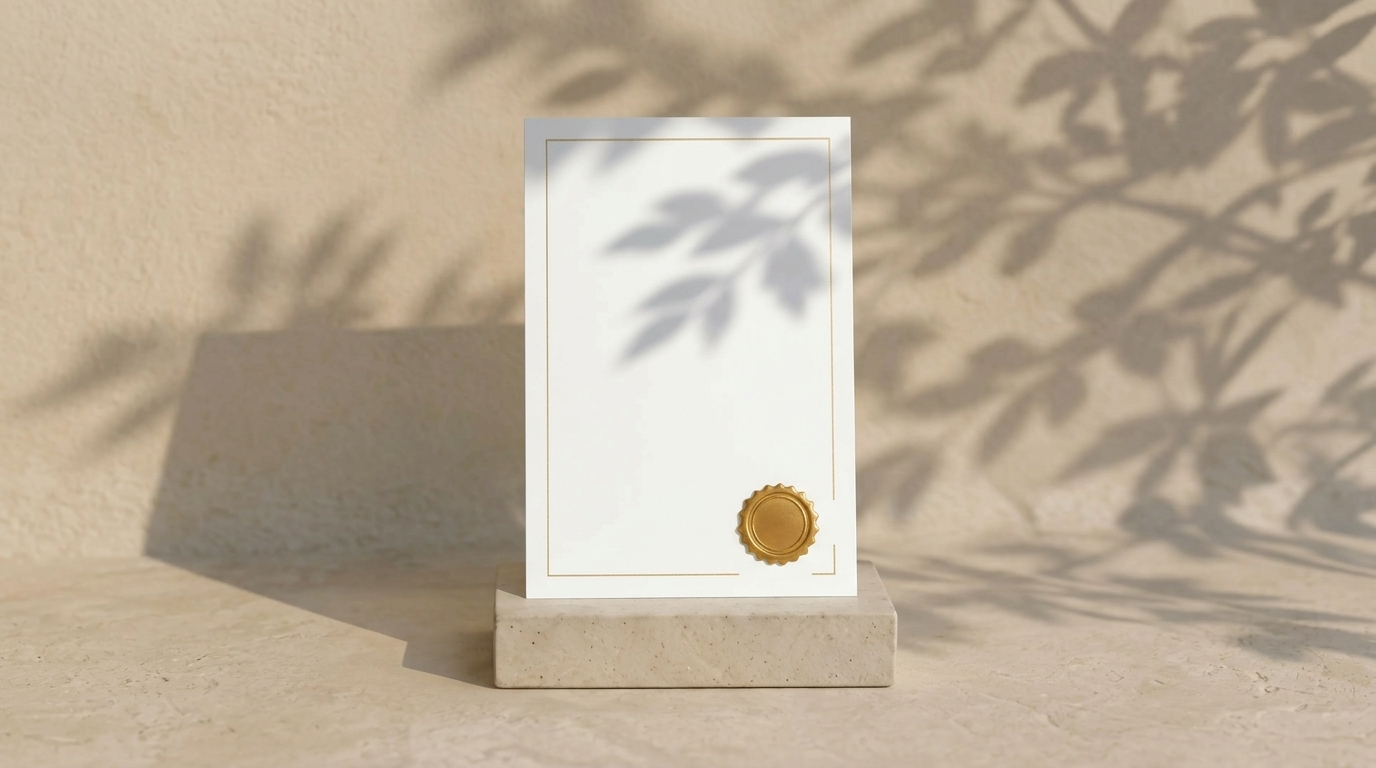
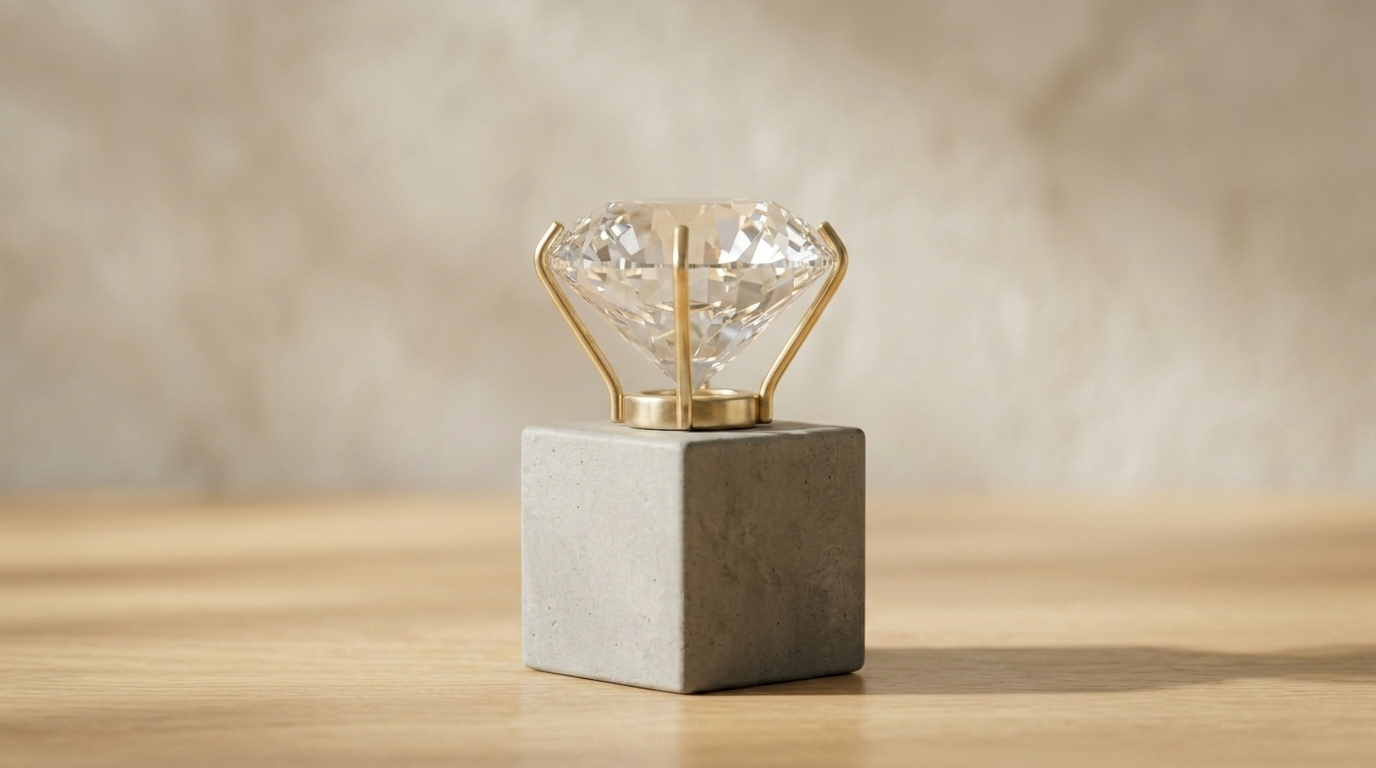
update forwhom images, reduce section spacing, remove kicker texts

diff --git a/src/app/page.tsx b/src/app/page.tsx
@@ -55,28 +55,28 @@ const forWhomData = [
     title: "Тревога за семью",
     desc: "Вы хотите финансовую опору для семьи, а не жизнь от зарплаты до зарплаты.",
     after: "У вас будет система, которая превращает часть дохода в растущий капитал. Не «когда-нибудь потом», а по конкретному плану.",
-    img: "images/target_card.jpeg",
+    img: "images/target_1.jpeg",
   },
   {
     num: "02",
     title: "Тревога о будущем",
     desc: "Вы понимаете, что на одну пенсию жить не получится — и хотите успеть создать капитал.",
     after: "Вы будете знать, сколько нужно откладывать, куда направлять и как защитить то, что уже есть.",
-    img: "images/portfolio_growth.jpeg",
+    img: "images/target_2.jpeg",
   },
   {
     num: "03",
     title: "Финансовый хаос",
     desc: "Деньги приходят, но системы нет — и вы чувствуете, что теряете контроль.",
     after: "Вместо хаоса — система. Вместо тревоги — план. Вместо «что делать с деньгами» — работающий портфель.",
-    img: "images/tools_visual.jpeg",
+    img: "images/target_3.jpeg",
   },
   {
     num: "04",
     title: "Есть опыт, нет системы",
     desc: "Вы уже инвестируете, но без стратегии — покупаете по интуиции, реагируете на новости.",
     after: "Вы пересоберёте портфель по системе — с обоснованием каждой позиции и протоколами на случай паники.",
-    img: "images/stocks_analysis.jpeg",
+    img: "images/target_4.jpeg",
   },
 ];
 
@@ -645,7 +645,6 @@ export default function Home() {
         <section className="section forwhom-section reveal-section">
           <div className="container">
             <div className="section-head section-head-light">
-              <p className="section-kicker">Это для вас</p>
               <h2>Эта программа — для вас, если</h2>
               <p>Не важно, сколько вам лет, какой у вас доход и есть ли опыт. Важно — что вы чувствуете прямо сейчас.</p>
             </div>
@@ -702,7 +701,6 @@ export default function Home() {
           <div className="container">
             <div className="tools-layout">
               <div className="tools-copy">
-                <p className="section-kicker">Ваша инвестиционная инфраструктура</p>
                 <h2>10 рабочих инструментов,<br />которые останутся<br />с вами <span className="heading-accent">навсегда*</span></h2>
                 <p className="tools-lead">Знания устаревают. Инструменты — работают годами.</p>
 
@@ -737,7 +735,6 @@ export default function Home() {
         <section className="section howitworks-section reveal-section">
           <div className="container">
             <div className="section-head">
-              <p className="section-kicker">Формат</p>
               <h2>Как проходит обучение</h2>
             </div>
             <div className="hiw-grid">
@@ -782,7 +779,6 @@ export default function Home() {
         <section className="section program-section reveal-section" id="program">
           <div className="container">
             <div className="section-head">
-              <p className="section-kicker">Содержание</p>
               <h2>Программа образовательного курса</h2>
               <p>8 модулей + 3 бонусных · 46 уроков · от основ до защиты портфеля перед экспертом</p>
             </div>
@@ -921,7 +917,6 @@ export default function Home() {
         <section className="section experts-section reveal-section" id="experts">
           <div className="container">
             <div className="section-head">
-              <p className="section-kicker">Команда</p>
               <h2>Эксперты образовательной программы</h2>
             </div>
 
@@ -964,7 +959,6 @@ export default function Home() {
         <section className="section pricing-section reveal-section" id="pricing">
           <div className="container">
             <div className="section-head">
-              <p className="section-kicker">Тарифы</p>
               <h2>Выберите свой формат участия</h2>
             </div>
 
@@ -1229,7 +1223,6 @@ export default function Home() {
                 <img src="images/portfolio_growth.jpeg" alt="Финансовая свобода" className="final-img" width="500" height="340" loading="lazy" />
               </div>
               <div className="final-copy">
-                <p className="section-kicker" style={{ color: "var(--orange)" }}>Финальный шаг</p>
                 <h2>Вы уже знаете, что хотите большего.<br />Осталось — начать.</h2>
                 <p className="final-text">Вы можете продолжать откладывать. А можете через 8 недель защитить свой первый инвестиционный портфель, собранный по системе, с инструментами, которые останутся с вами на годы.</p>
                 <a href="#pricing" onClick={(e) => handleAnchorClick(e, "pricing")} className="cta cta-primary final-cta" id="final-cta-btn">Выбрать тариф и начать обучение →</a>

diff --git a/src/app/globals.css b/src/app/globals.css
@@ -1074,6 +1074,7 @@ summary {
    ========================================= */
 .howitworks-section {
     background: linear-gradient(180deg, #ffffff, #f8f3ed);
+    padding-top: 40px;
 }
 
 .hiw-grid {
@@ -1404,6 +1405,7 @@ summary {
    ========================================= */
 .experts-section {
     background: linear-gradient(180deg, #ffffff 0%, #f8f3ed 100%);
+    padding-top: 40px;
 }
 
 .experts-grid {
